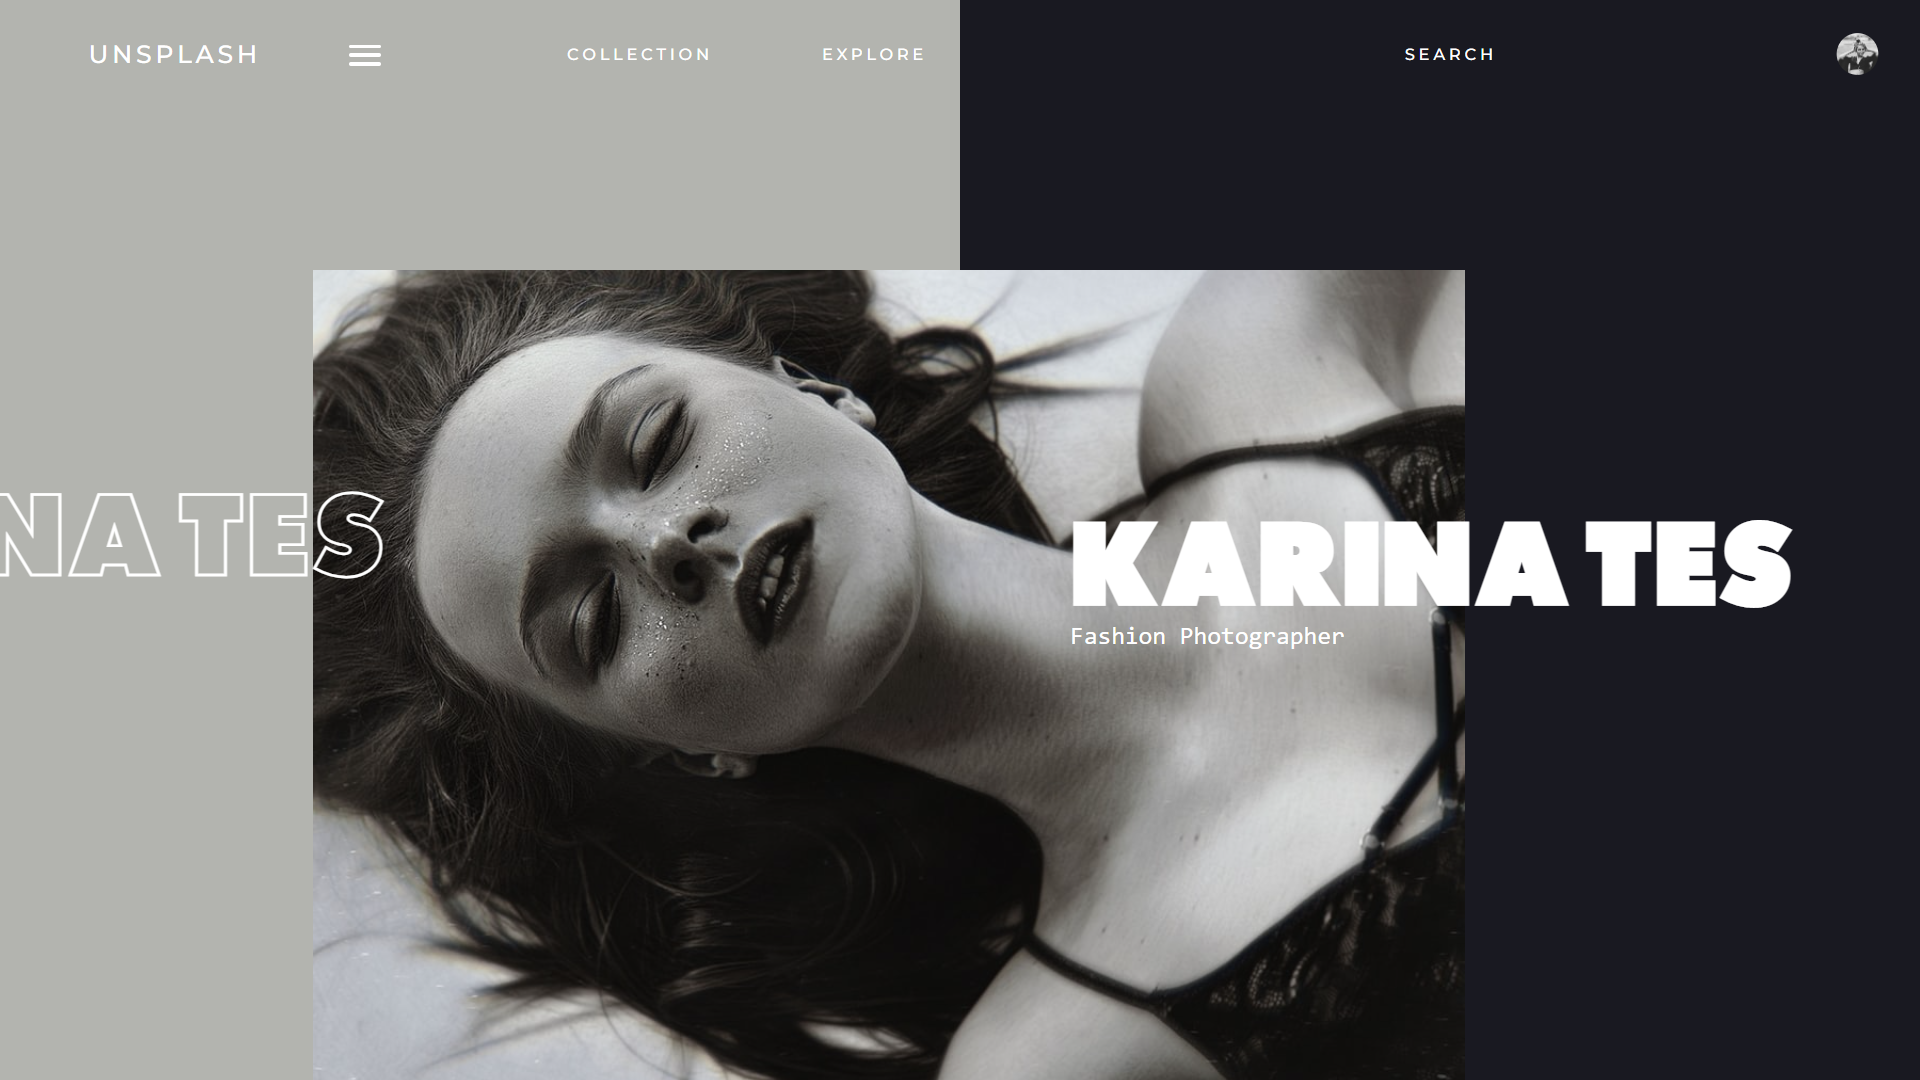
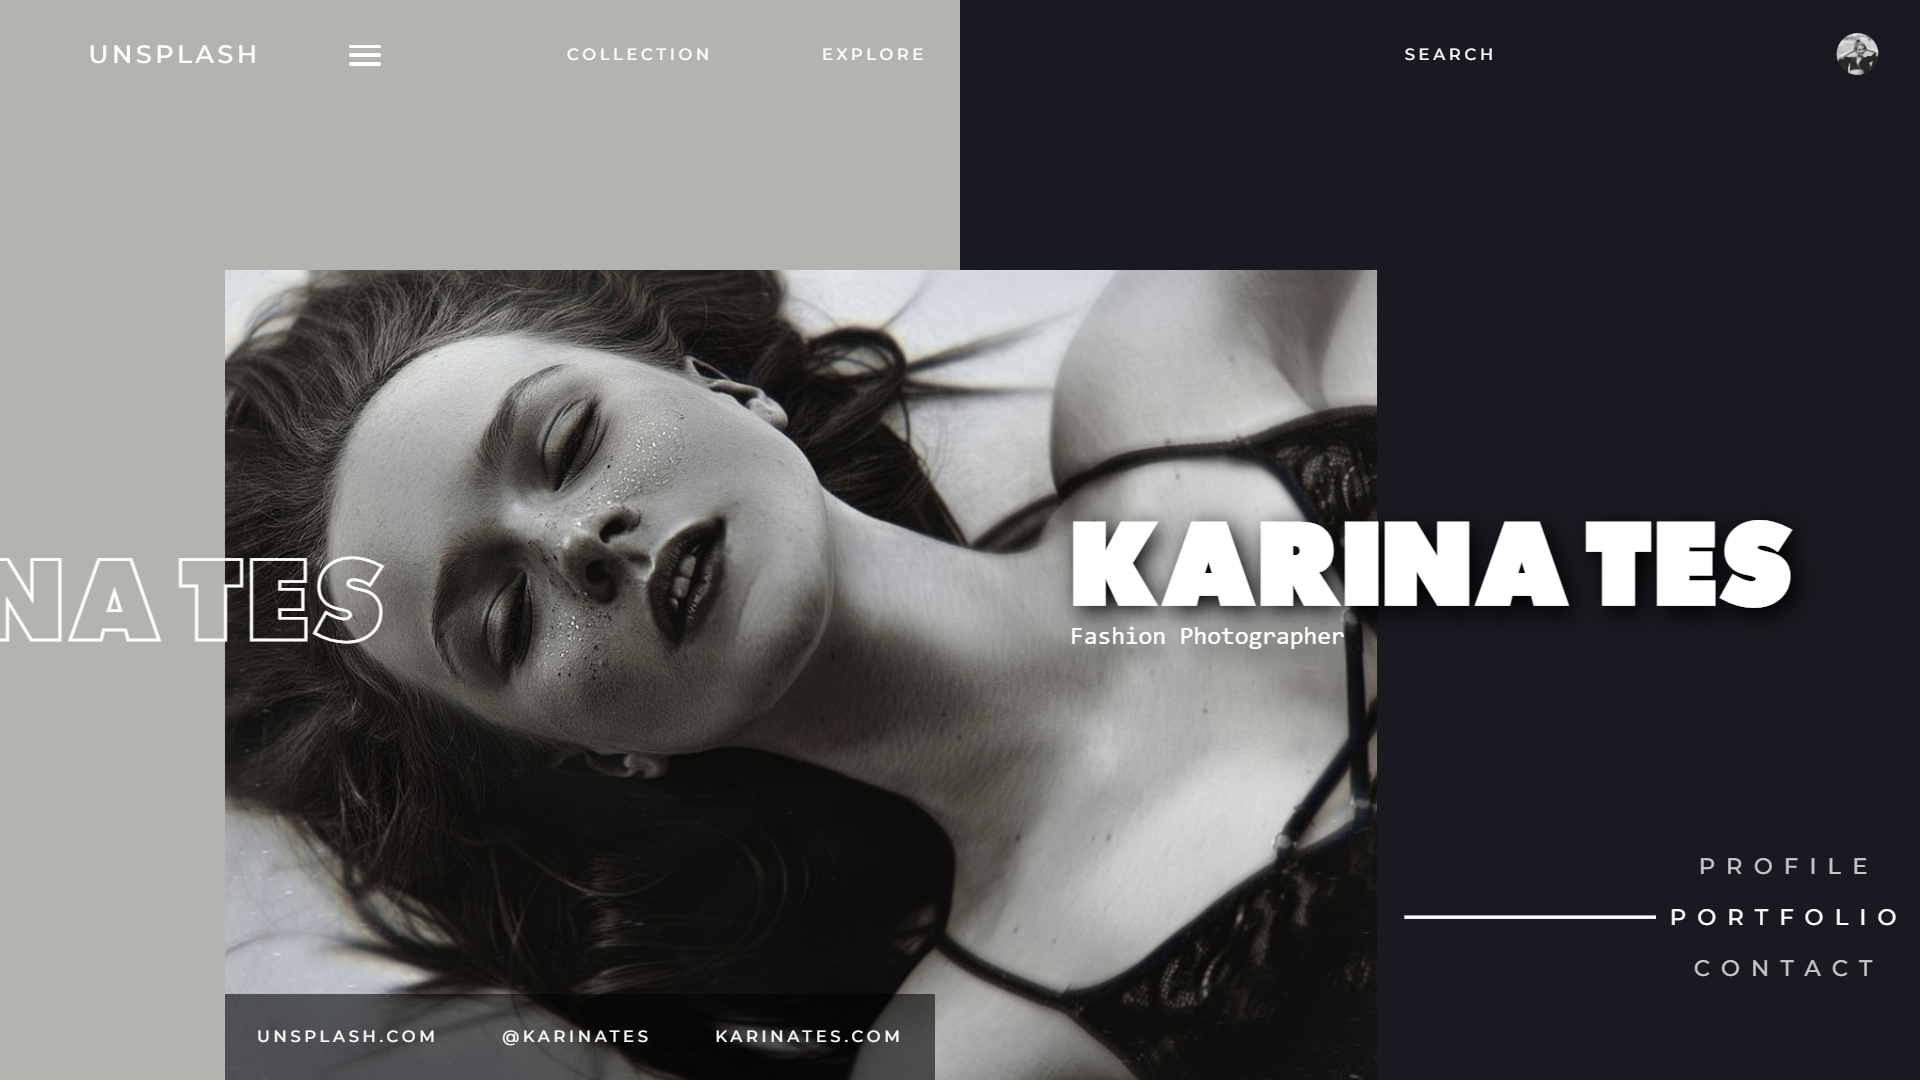
feat: Animations & clean code

Changed region(s): [[0.0, 0.2444, 1.0, 1.0], [0.875, 0.8861, 0.9688, 0.9167], [0.3438, 0.8861, 0.375, 0.9167]]

diff --git a/index.html b/index.html
@@ -18,15 +18,21 @@
             <script src="assets/JS/html5shiv.js"></script>
         <![endif]-->
 
+        <!--AOS-->
+        <link rel="stylesheet" href="https://unpkg.com/aos@next/dist/aos.css" />
+        <!--Animate.css-->
+        <link rel="stylesheet" href="https://cdnjs.cloudflare.com/ajax/libs/animate.css/4.1.1/animate.min.css"/>
 
         <title>Karina Nates</title>
 
     </head>
     <body>
 
+        <div class="right" data-aos="fade-up" data-aos-duration="500" data-aos-easing="ease-in-out" data-aos-delay="900"></div>
+
         <header>
             <nav class="header-section">
-                <section>
+                <section  data-aos="fade-right" data-aos-duration="700" data-aos-easing="ease-in-out" data-aos-delay="400">
                     <span>UNSPLASH</span>
                     <label>
                         <span></span>
@@ -34,36 +40,51 @@
                         <span></span>
                     </label>
                 </section>
-                <section>
+                <section  data-aos="fade-right" data-aos-duration="700" data-aos-easing="ease-in-out" data-aos-delay="700">
                     <a href="#">COLLECTION</a>
                     <a href="#">EXPLORE</a>
                 </section>
-                <section>
+                <section  data-aos="fade-left" data-aos-duration="700" data-aos-easing="ease-in-out" data-aos-delay="900">
                     <a href="#">SEARCH</a>
-                    <img src="assets/img/profile.jpg" alt="">
+                    <img src="assets/img/profile.jpg" alt="" data-aos="fade-left" data-aos-duration="1000" data-aos-easing="ease-in-out" data-aos-delay="900">
                 </section>
             </nav>
         </header>
 
         <main>
 
-            <div class="image"></div>
+            <div class="image" data-aos="fade-right" data-aos-duration="700" data-aos-easing="ease-in-out" data-aos-delay="200"></div>
 
             <div class="text">
-                <h1>karina tes</h1>
-                <p>Fashion Photographer</p>
+                <h1 data-aos="fade-left" data-aos-duration="700" data-aos-easing="ease-in-out" data-aos-delay="400">karina tes</h1>
+                <p data-aos="fade-left" data-aos-duration="700" data-aos-easing="ease-in-out" data-aos-delay="900">Fashion Photographer</p>
             </div>
         
-            <div class="name">karina tes</div>
+            <div class="name" data-aos="fade-right" data-aos-duration="700" data-aos-easing="ease-in-out" data-aos-delay="600">karina tes</div>
 
+            <section class="menu-container">
+                <section class="menu">
+                    <hr class="animate__animated animate__fadeInRight">
+                    <div>
+                        <a href="#" class="animate__animated animate__fadeInRight">PROFILE</a>
+                        <a href="#" class="animate__animated animate__fadeInRight">PORTFOLIO</a>
+                        <a href="#" class="animate__animated animate__fadeInRight">CONTACT</a>
+                    </div>
+                </section>
+            </section>
         </main>
 
-        <footer>
-
+        <footer  class="animate__animated animate__fadeInUp">
+            <a href="#">UNSPLASH.COM</a>
+            <a href="#">@KARINATES</a>
+            <a href="#">KARINATES.COM</a>
         </footer>
-        
-        <!-- JavaScript -->
-        <script src="vendor/Bootstrap4/js/bootstrap.min.js"></script>
+
+        <!--AOS-->
+        <script src="https://unpkg.com/aos@next/dist/aos.js"></script>
+        <script>
+            AOS.init();
+        </script>
 
     </body>
 </html>

diff --git a/assets/CSS/style.css b/assets/CSS/style.css
@@ -19,12 +19,24 @@ body{
     overflow: hidden;
     color: #fff;
     background: rgb(179,180,175);
-    background: -moz-linear-gradient(90deg, rgba(179,180,175,1) 50%, rgba(25,25,33,1) 50%);
-    background: -webkit-linear-gradient(90deg, rgba(179,180,175,1) 50%, rgba(25,25,33,1) 50%);
-    background: linear-gradient(90deg, rgba(179,180,175,1) 50%, rgba(25,25,33,1) 50%);
-    filter: progid:DXImageTransform.Microsoft.gradient(startColorstr="#b3b4af",endColorstr="#191921",GradientType=1);
     font-family: 'Montserrat', sans-serif;
 }
+
+.right{
+    position: absolute;
+    right: 0;
+    top: 0;
+    height: 100%;
+    width: 50%;
+    background-color: rgba(25,25,33,1);
+    z-index: -10;
+}
+
+a{
+    color: #fff;
+    text-decoration: none;
+}
+
 
 /*Header*/
 
@@ -72,11 +84,6 @@ header{
 
 .header-section section:nth-child(3){
     width: 50%;
-}
-
-a{
-    color: #fff;
-    text-decoration: none;
 }
 
 label{
@@ -130,7 +137,8 @@ main{
     width: 60%;
     position: absolute;
     bottom: 0;
-    left: 250px;
+    left: 180px;
+    z-index: 5 !important;
 }
 
 .text {
@@ -138,6 +146,8 @@ main{
     top: 50%;
     right: 100px;
     transform: translateY(-50%);
+    text-shadow: 5px 5px 20px #000;
+    z-index: 10;
 }
 
 .text h1 {
@@ -165,4 +175,87 @@ main{
     text-transform: uppercase;
     color: transparent;
     -webkit-text-stroke: 2px #fff;
+    z-index: 10;
+}
+
+.menu-container{
+    width: auto;
+    height: auto;
+    position: absolute;
+    bottom: 8vh;
+    left: 130vh;
+}
+
+.menu{
+    display: flex;
+    flex-direction: row;
+    align-items: center;
+    justify-content: center;
+    font-size: 1.8rem;
+}
+
+.menu div{
+    display: flex;
+    flex-direction: column;
+    align-items: center;
+    justify-content: center;
+}
+
+.menu hr{
+    z-index: -10;
+    width: 200px;
+    height: 1px;
+    background-color: #fff;
+    animation-delay: 0.8s;
+}
+
+.menu a{
+    letter-spacing: 9px !important;
+    color: rgb(198, 198, 198);
+    text-decoration: none;
+    text-align: center;
+    padding: 10px;
+}
+
+.menu a:nth-child(1){
+    animation-delay: 0.9s;
+}
+
+.menu a:nth-child(2){
+    color: #fff;
+    font-weight: 500;
+    animation-delay: 1.2s;
+}
+
+.menu a:nth-child(3){
+    animation-delay: 1.4s;
+}
+
+.menu a:hover{
+    transform: scale(1.1) !important;
+}
+
+.menu a:nth-child(2):hover {
+    transform: scale(1.05) !important;
+}
+/*Footer*/
+
+footer{
+    height: 8vh;
+    width: 37%;
+    font-size: 1.3rem;
+    background-color: rgba(0, 0, 0, 0.574);
+    position: absolute;
+    bottom: 0;
+    left: 180px;
+    display: flex;
+    align-items: center;
+    justify-content: space-around;
+    letter-spacing: 3px;
+    z-index: 20 !important;
+    animation-delay: 1.8s;
+}
+
+footer a:hover{
+    transform: scale(1.1);
 }

diff --git a/README.md b/README.md
@@ -1,3 +1,3 @@
 # Karina Nates
 
-<img src="assets/img/Karina-portfolio.png" width="80%"><img/>
+<img src="https://raw.githubusercontent.com/DiegoXavier-hub/Karina-page/master/assets/img/Karina-portfolio.PNG" width="80%"><img/>
